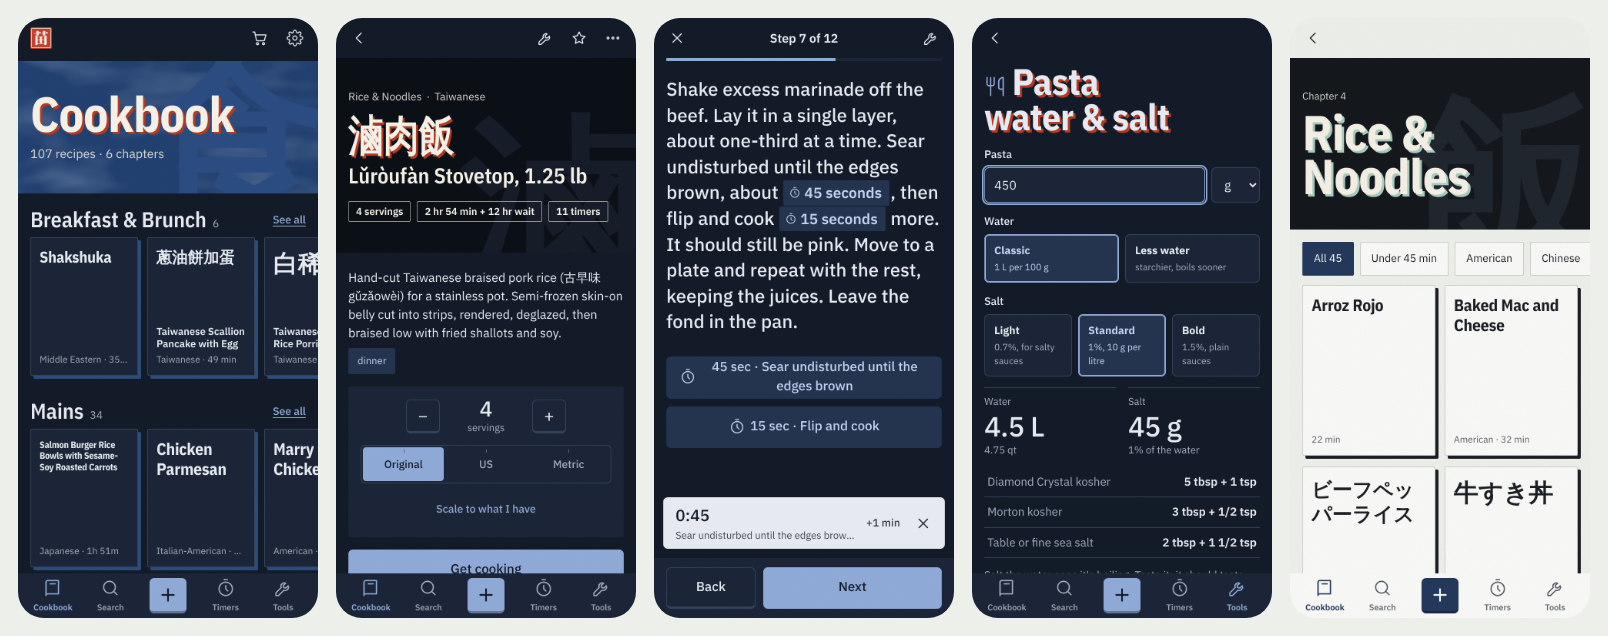
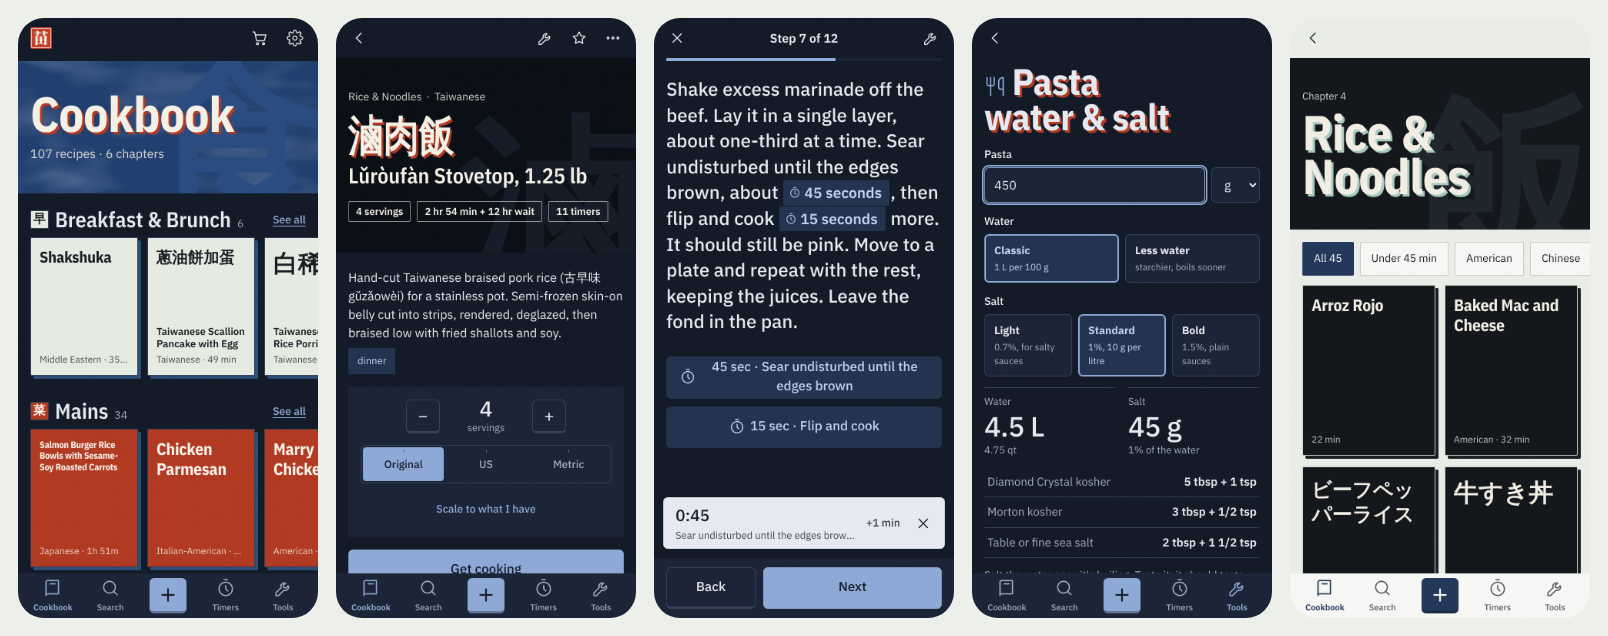
Bring back chapter color coding
Tiles, the chapter swatches on home, the chapter picker and the search
squares take their chapter's band tone again, so a recipe's color matches
its chapter and recipe header. Swatches carry the chapter's character
(drawn by CSS, so headings keep their text) to tell apart chapters that
share a tone.

Claude-Session: https://claude.ai/code/session_01CwdetwemHNm9NLnsmYwDuB

Changed region(s): [[0.8085, 0.4481, 0.995, 0.9261], [0.0, 0.3286, 0.2177, 0.5975], [0.0, 0.6274, 0.2177, 0.8962]]

diff --git a/styles.css b/styles.css
@@ -529,13 +529,21 @@ body.cooking .timer-tray { bottom: calc(90px + env(safe-area-inset-bottom)); }
 .tab-title { padding-top: calc(env(safe-area-inset-top) + 18px); }
 .pill { background: var(--indigo); color: var(--on-indigo); border-radius: var(--radius-md); padding: 8px 14px; font-weight: 600; font-size: 0.875rem; white-space: nowrap; }
 /* Chapters are told apart by name, not by color: a view uses ink, indigo and at most one more. */
-.dot { display: none; }
+/* A chapter swatch: a small block in the chapter's color with its character, like a seal. */
+.dot {
+  display: inline-grid; place-items: center; flex: none; width: 1.5em; height: 1.5em; border-radius: var(--radius-sm);
+  background: var(--bb); color: var(--bt); font-family: var(--font-serif-tc); font-weight: 900; font-size: 0.875rem; line-height: 1;
+  outline: 1px solid var(--hairline); outline-offset: -1px;
+}
+/* The character is drawn by CSS so it stays out of the heading's text. */
+.dot::before { content: attr(data-hanzi); }
+h2 .dot { font-size: 1rem; align-self: center; }
 
 /* Tiles: panels set apart by tone. The dish's own name is the large type. */
 .tile {
   flex: none; width: 140px; height: 180px; border-radius: var(--radius-sm); padding: 14px 12px 12px;
   display: flex; flex-direction: column; justify-content: space-between; gap: 8px; position: relative;
-  background: var(--surface-raised); color: var(--ink); text-decoration: none; overflow: hidden;
+  background: var(--bb, var(--surface-raised)); color: var(--bt, var(--ink)); text-decoration: none; overflow: hidden;
   container-type: inline-size; /* the title sizes itself in cqi, a share of the tile's width */
   /* Paper: a sheet lying on another sheet. A hard offset, never a blur. */
   box-shadow: var(--shadow-paper); outline: 1px solid var(--hairline); outline-offset: -1px;
@@ -554,13 +562,13 @@ body.cooking .timer-tray { bottom: calc(90px + env(safe-area-inset-bottom)); }
 .tile-big.native, .hero-native { word-break: keep-all; overflow-wrap: anywhere; }
 .tile-foot { display: grid; gap: 2px; }
 .tile-en { font-weight: 600; font-size: 0.8125rem; line-height: 1.25; overflow: hidden; display: -webkit-box; -webkit-box-orient: vertical; -webkit-line-clamp: 2; }
-.tile-meta { font-size: 0.75rem; color: var(--ink-muted); white-space: nowrap; overflow: hidden; text-overflow: ellipsis; }
-.tile-fav { position: absolute; top: 10px; right: 11px; font-size: 0.8125rem; color: var(--indigo); }
+.tile-meta { font-size: 0.75rem; opacity: .8; white-space: nowrap; overflow: hidden; text-overflow: ellipsis; }
+.tile-fav { position: absolute; top: 10px; right: 11px; font-size: 0.8125rem; }
 .mini {
   width: 50px; height: 50px; border-radius: var(--radius-sm); flex: none; display: grid; place-items: center;
-  background: var(--surface-raised); color: var(--ink); font-family: "IBM Plex Sans", var(--font-serif-tc); font-weight: 900; font-size: 1.25rem; overflow: hidden;
+  background: var(--bb, var(--surface-raised)); color: var(--bt, var(--ink)); font-family: "IBM Plex Sans", var(--font-serif-tc); font-weight: 900; font-size: 1.25rem; overflow: hidden;
+  outline: 1px solid var(--hairline); outline-offset: -1px;
 }
-.card .mini { background: var(--surface); }
 
 /* Home */
 .home .section-head { align-items: center; margin-top: 12px; }
@@ -780,12 +788,13 @@ body.has-tabbar .timer-tray { bottom: calc(var(--tabbar-h) + 10px); }
 .picker { display: grid; grid-template-columns: 1fr 1fr; gap: 8px; }
 .pick {
   display: flex; align-items: center; gap: 8px; min-height: 52px; padding: 10px 12px; border-radius: var(--radius-md);
-  border: 2px solid transparent; background: var(--surface-raised); color: var(--ink);
-  font-weight: 600; font-size: 0.9375rem; text-align: left;
+  border: 2px solid transparent; background: var(--bb, var(--surface-raised)); color: var(--bt, var(--ink));
+  font-weight: 600; font-size: 0.9375rem; text-align: left; outline: 1px solid var(--hairline); outline-offset: -1px;
 }
-.pick.on { border-color: var(--indigo); background: var(--indigo-soft); color: var(--indigo-ink); }
-.pick.guess { border-color: var(--hairline); border-style: dashed; }
-.pick.on.guess { border-color: var(--indigo); border-style: solid; }
+/* The chosen chapter: a heavy rule in the chapter's own text color, and a paper shadow. */
+.pick.on { border-color: currentColor; box-shadow: var(--shadow-paper); }
+.pick.guess { border-color: currentColor; border-style: dashed; }
+.pick.on.guess { border-style: solid; }
 .pick:focus-visible { outline-color: var(--indigo); }
 .guess-label { margin-left: auto; font-size: 0.75rem; font-weight: 500; color: var(--ink-muted); }
 .pick.on .guess-label { color: inherit; }
@@ -842,12 +851,13 @@ body::after { content: ""; position: fixed; inset: 0; pointer-events: none; z-in
   background: var(--bb); color: var(--bt);
   --riso: var(--shadow-riso);
 }
-.band-indigo { --bb: var(--band-indigo); --bt: var(--band-indigo-ink); --bm: var(--band-indigo-mark); }
+.band-indigo, .tone-indigo { --bb: var(--band-indigo); --bt: var(--band-indigo-ink); --bm: var(--band-indigo-mark); }
 .band-indigo::before { content: ""; position: absolute; inset: 0; z-index: -1; background-image: var(--mottle); background-size: 600px 400px; opacity: .35; mix-blend-mode: screen; }
-.band-shu { --bb: var(--band-shu); --bt: var(--band-shu-ink); --bm: var(--band-shu-mark); --riso: 3px 3px 0 var(--titlecard); }
-.band-tile { --bb: var(--band-tile); --bt: var(--band-tile-ink); --bm: var(--band-tile-mark); }
-.band-ledger { --bb: var(--band-ledger); --bt: var(--band-ledger-ink); --bm: var(--band-ledger-mark); }
-.band-ink { --bb: var(--band-ink); --bt: var(--band-ink-ink); --bm: var(--band-ink-mark); }
+.band-shu, .tone-shu { --bb: var(--band-shu); --bt: var(--band-shu-ink); --bm: var(--band-shu-mark); }
+.band-shu { --riso: 3px 3px 0 var(--titlecard); }
+.band-tile, .tone-tile { --bb: var(--band-tile); --bt: var(--band-tile-ink); --bm: var(--band-tile-mark); }
+.band-ledger, .tone-ledger { --bb: var(--band-ledger); --bt: var(--band-ledger-ink); --bm: var(--band-ledger-mark); }
+.band-ink, .tone-ink { --bb: var(--band-ink); --bt: var(--band-ink-ink); --bm: var(--band-ink-mark); }
 /* The light theme's riso ink is mint, which disappears on the light bands. */
 [data-theme="light"] .band-tile, [data-theme="light"] .band-ledger { --riso: 3px 3px 0 var(--band-shu); }
 .band-inner {

diff --git a/js/views/home.js b/js/views/home.js
@@ -4,7 +4,7 @@ import { UNSORTED, chapterOf } from "../cookbook.js";
 import { canWrite, getChapters, lastLoaded, listRecipes, loadLocal, saveLocal } from "../store.js";
 import { getTimers } from "../timers.js";
 import { displayName, errorMessage, fill, h, iconButton } from "../ui.js";
-import { chapterClass, miniTile, tile } from "./tiles.js";
+import { chapterBand, chapterClass, miniTile, tile } from "./tiles.js";
 import { cartButton } from "./shopping.js";
 
 const SHELF_SIZE = 12;
@@ -81,11 +81,13 @@ function draw(body, recipes, chapters, count) {
     location.replace("#/sort");
     return;
   }
+  // A chapter's swatch: its color, with its character (飯, 湯…) so chapters that share a color differ.
+  const swatch = (id) => ({ cls: chapterClass(id, chapters), hanzi: chapterBand(id, chapters).hanzi });
   const cooking = inProgress(recipes);
   const favorites = recipes.filter((r) => r.favorite).sort(byInterest);
-  const shelf = (title, list, { href, cls, count = list.length } = {}) => h("section", { class: "shelf-section" },
+  const shelf = (title, list, { href, mark, count = list.length } = {}) => h("section", { class: "shelf-section" },
     h("div", { class: "section-head" },
-      h("h2", {}, cls ? h("span", { class: `dot ${cls}`, "aria-hidden": "true" }) : null, title, h("span", { class: "count" }, count)),
+      h("h2", {}, mark ? h("span", { class: `dot ${mark.cls}`, "aria-hidden": "true", "data-hanzi": mark.hanzi }) : null, title, h("span", { class: "count" }, count)),
       href ? h("a", { class: "see-all", href }, "See all") : null),
     h("div", { class: "shelf", role: "list" }, list.slice(0, SHELF_SIZE).map((r) => tile(r, chapters))));
 
@@ -107,8 +109,8 @@ function draw(body, recipes, chapters, count) {
       h("span", { class: "pill" }, "Sort now")) : null,
 
     favorites.length ? shelf("★ Favorites", favorites) : null,
-    used.map((c) => shelf(c.name, groups.get(c.id).sort(byInterest), { href: `#/c/${c.id}`, cls: chapterClass(c.id, chapters) })),
-    unsorted.length ? shelf("Unsorted", unsorted.sort(byInterest), { href: `#/c/${UNSORTED.id}`, cls: "pal-unsorted" }) : null,
+    used.map((c) => shelf(c.name, groups.get(c.id).sort(byInterest), { href: `#/c/${c.id}`, mark: swatch(c.id) })),
+    unsorted.length ? shelf("Unsorted", unsorted.sort(byInterest), { href: `#/c/${UNSORTED.id}`, mark: swatch(UNSORTED.id) }) : null,
 
     // The chapter list on a mint band, 目錄 (table of contents) cropped behind it.
     h("section", { class: "band band-tile toc-band" },
@@ -121,7 +123,7 @@ function draw(body, recipes, chapters, count) {
         [...chapters, ...(unsorted.length ? [UNSORTED] : [])].map((c) => h("a", {
           class: `toc-row ${groups.get(c.id).length ? "" : "empty-chapter"}`, href: `#/c/${c.id}`,
         },
-        h("span", { class: `dot ${chapterClass(c.id, chapters)}`, "aria-hidden": "true" }),
+        h("span", { class: `dot ${chapterClass(c.id, chapters)}`, "aria-hidden": "true", "data-hanzi": chapterBand(c.id, chapters).hanzi }),
         h("span", { class: "toc-name" }, c.name),
         h("span", { class: "toc-count" }, groups.get(c.id).length || "—"))))))),
   );

diff --git a/js/views/tiles.js b/js/views/tiles.js
@@ -3,12 +3,9 @@
 import { UNSORTED, formatTotal } from "../cookbook.js";
 import { h, displayName, nativeOf } from "../ui.js";
 
-// Chapters are colored by position (7 palettes, then they repeat); Unsorted is neutral.
-export function chapterClass(id, chapters) {
-  if (id === UNSORTED.id) return "pal-unsorted";
-  const i = chapters.findIndex((c) => c.id === id);
-  return `pal-${(i < 0 ? 0 : i) % 7}`;
-}
+// A chapter's color, as a class: the same tone as its band (see chapterBand), so tiles, swatches
+// and the chapter picker match the headers of its recipes.
+export const chapterClass = (id, chapters) => `tone-${chapterBand(id, chapters).tone}`;
 
 export const WIDE = /[\p{Script=Han}\p{Script=Hiragana}\p{Script=Katakana}\p{Script=Hangul}ー]/u;
 const ems = (s) => [...s].reduce((n, c) => n + (WIDE.test(c) ? 1 : c === " " ? 0.3 : 0.56), 0); // condensed bold Latin

diff --git a/sw.js b/sw.js
@@ -3,7 +3,7 @@
 
 // Bump this with every change to the app's files: a changed sw.js is how phones learn there's a
 // new version (they then show "Recipe Box was updated · Reload").
-const SHELL = "rb-shell-v12";
+const SHELL = "rb-shell-v13";
 // Every file the app needs. A test checks this list against js/ so a missing file can't break
 // offline installs.
 const SHELL_FILES = [
